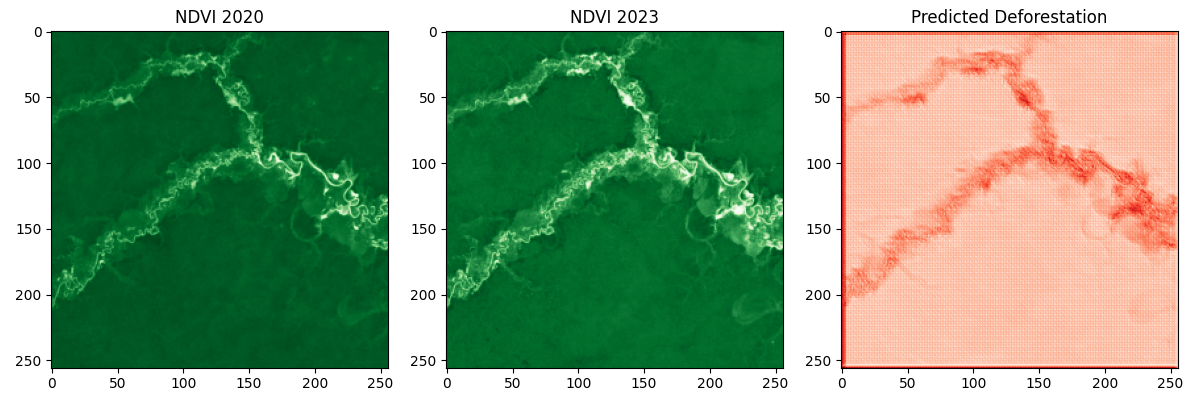
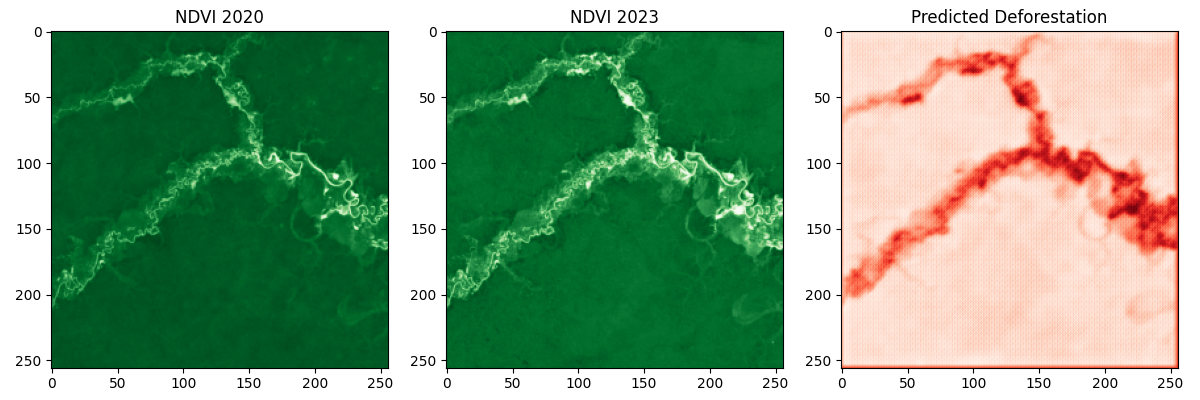
results refined

Changed region(s): [[0.6783, 0.06, 0.9867, 0.93]]

diff --git a/generate_synthetic_mask.py b/generate_synthetic_mask.py
@@ -16,9 +16,13 @@ print("NDVI 2023 - Min, Mean, Max:", ndvi_2023.min(), ndvi_2023.mean(), ndvi_202
 print("NDVI Difference - Min, Mean, Max:", ndvi_diff.min(), ndvi_diff.mean(), ndvi_diff.max())
 print("NDVI Difference Percentiles (10th, 50th, 90th):", np.percentile(ndvi_diff, [10, 50, 90]))
 
+# Mask out water bodies (NDVI < 0.2 in 2020)
+forest_mask = ndvi_2020 > 0.2  # Only consider pixels that were forested in 2020
+
 # Create a synthetic mask: 1 for deforestation (significant NDVI decrease), 0 otherwise
-threshold = -0.35  # Adjusted to capture only the bottom 10% of NDVI drops
-mask = np.where(ndvi_diff < threshold, 1, 0).astype(np.uint8)
+threshold = -0.35
+mask = np.zeros_like(ndvi_2020, dtype=np.uint8)
+mask[forest_mask & (ndvi_diff < threshold)] = 1  # Label as deforested only if forested in 2020 and NDVI dropped
 
 # Check class distribution
 total_pixels = mask.size
